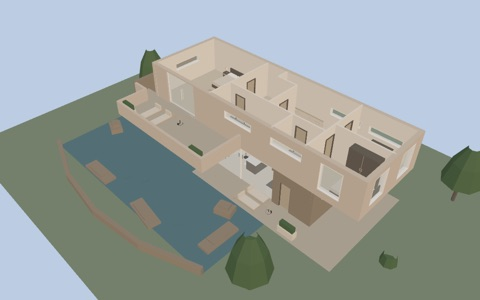
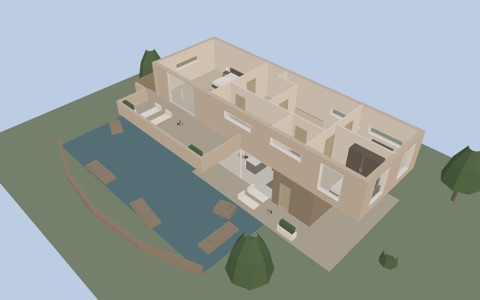
Pond House v4.1: an oak rod rail, the floor lamp lights, fewer materials
The designer's latest revision: the floating stair's rail is oak rods
(no glass), the floor lamp is a light, and materials are merged (122 draw
calls at the scale model with Transparent walls on, from 144). New card
picture. The emulated hand checks aim at a room's middle (Pond House's
box centre is its pond, never a landing).

diff --git a/scripts/make-pond-house.js b/scripts/make-pond-house.js
@@ -30,7 +30,10 @@ const c = (cx, cz, r, y0, y1, mat, seg = 12, r1 = r) => ({ cyl: [cx, cz, r, r1, 
 
 // Fewer distinct materials = fewer draw calls (one per material per storey after the merge).
 // These roles fold into a near neighbour in this home.
-const ALIAS = { bark: 'walnut', foliage: 'green', linen: 'wool', leather: 'graphite', steelWhite: 'ceiling', terracotta: 'oak', brass: 'oak', concrete: 'wool' };
+// Roles that look the same under the app's light share one material (each material is a draw call per storey;
+// Quest 2 budget ~150 at the scale model with see-through walls): oatmeal ~ pale ash, stone ~ warm stone,
+// wool, linen and concrete ~ the light off-white.
+const ALIAS = { bark: 'walnut', foliage: 'green', linen: 'ceiling', leather: 'graphite', steelWhite: 'ceiling', terracotta: 'oak', brass: 'oak', concrete: 'ceiling', wool: 'ceiling', oatmeal: 'oak', stone: 'masonry' };
 
 function toObj(name, solids) {
 	const lines = [`# ${name}: generated for CasaWalk (Pond House)`, `mtllib ${name}.mtl`];
@@ -73,8 +76,8 @@ const MODELS = {
 	glassPanelNarrow: [b(0, 0, 0, 4, 240, 10, 'steelWhite'), b(256, 0, 0, 260, 240, 10, 'steelWhite'), b(4, 0, 4.5, 256, 240, 5.5, 'glass')],
 	glassDoor: [b(0, 0, 0, 4, 270, 10, 'steelWhite'), b(296, 0, 0, 300, 270, 10, 'steelWhite'), b(4, 0, 4.5, 296, 270, 5.5, 'glass'), b(150, 90, 10, 153, 180, 13, 'steelWhite'), b(150, 90, -3, 153, 180, 0, 'steelWhite')],
 	ribbon: [b(0, 0, 0, 240, 4, 30, 'steelWhite'), b(0, 56, 0, 240, 60, 30, 'steelWhite'), b(0, 4, 0, 4, 56, 30, 'steelWhite'), b(236, 4, 0, 240, 56, 30, 'steelWhite'), b(4, 4, 14, 236, 56, 16, 'glass')],
-	door: [b(0, 0, 0, 5, 212, 20, 'walnut'), b(85, 0, 0, 90, 212, 20, 'walnut'), b(5, 207, 0, 85, 212, 20, 'walnut'), b(5, 0, 8, 85, 207, 12, 'oak'), b(74, 98, 5, 78, 102, 15, 'brass')],
-	frontDoor: [b(0, 0, 0, 5, 230, 30, 'walnut'), b(115, 0, 0, 120, 230, 30, 'walnut'), b(5, 225, 0, 115, 230, 30, 'walnut'), b(5, 0, 13, 115, 225, 17, 'walnut'), b(95, 80, 8, 98, 160, 22, 'brass')],
+	door: [b(0, 0, 0, 5, 212, 20, 'oak'), b(85, 0, 0, 90, 212, 20, 'oak'), b(5, 207, 0, 85, 212, 20, 'oak'), b(5, 0, 8, 85, 207, 12, 'oak'), b(74, 98, 5, 78, 102, 15, 'brass')], // one material: openings merge apart
+	frontDoor: [b(0, 0, 0, 5, 230, 30, 'oak'), b(115, 0, 0, 120, 230, 30, 'oak'), b(5, 225, 0, 115, 230, 30, 'oak'), b(5, 0, 13, 115, 225, 17, 'oak'), b(95, 80, 8, 98, 160, 22, 'brass')],
 	// Structure and site
 	column: [b(0, 0, 0, 20, 288, 20, 'steelWhite')], // one storey each: the garden level part and the pavilion part are separate pieces
 	columnP: [b(0, 0, 0, 20, 300, 20, 'steelWhite')],
@@ -96,7 +99,8 @@ const MODELS = {
 	rodRail: [...Array.from({ length: 23 }, (_, i) => c(5 + i * 10.9, 2, 1.5, 0, 97, 'oak', 6)), b(0, 97, -1, 250, 101, 5, 'oak')],
 	// Outdoor stair in the west wall's slot: 16 solid stone steps (model z 0 = the top)
 	stairsOut: Array.from({ length: 16 }, (_, i) => b(0, 0, 416 - (i + 1) * 26, 110, +((i + 1) * 300 / 17).toFixed(2), 416 - i * 26, 'masonry')),
-	shower: [b(0, 0, 0, 90, 6, 90, 'stone'), b(0, 6, 88, 90, 200, 90, 'glass'), c(70, 12, 10, 196, 198, 'brass', 10), c(70, 6, 1, 160, 198, 'brass', 6)],
+	shower: [b(0, 0, 0, 90, 6, 90, 'stone'), b(0, 6, 84, 90, 200, 90, 'stone'), // a stone screen wall (no glass: one material fewer)
+		 c(70, 12, 10, 196, 198, 'brass', 10), c(70, 6, 1, 160, 198, 'brass', 6)],
 	tallWindow: [b(0, 0, 0, 4, 200, 30, 'steelWhite'), b(146, 0, 0, 150, 200, 30, 'steelWhite'), b(4, 0, 0, 146, 4, 30, 'steelWhite'), b(4, 196, 0, 146, 200, 30, 'steelWhite'), b(4, 4, 14, 146, 196, 16, 'glass')],
 	railing: [b(0, 96, 0, 300, 100, 4, 'graphite'), ...Array.from({ length: 11 }, (_, i) => b(i * 29.6, 0, 1, i * 29.6 + 3, 96, 3, 'graphite'))],
 	waterA: [b(0, 0, 0, 950, 1, 620, 'water')],
@@ -196,7 +200,8 @@ const light = (...a) => piece('light', ...a);
 // ===========================================================================
 
 const G = 'level-ground', P = 'level-upper';
-const STONE = argb('masonry'), FRAME = argb('steelWhite'), RENDER = argb('putty'), PLASTER = argb('walls'), OCHRE = argb('concrete');
+const STONE = argb('masonry'), FRAME = argb('walls'), // (the white steel frame reads as the plaster: one colour)
+	 RENDER = argb('putty'), PLASTER = argb('walls'), OCHRE = argb('concrete');
 
 // --- Site: trees, shrubs, the pond (south and south-west, under the terrace), ledges and boulders
 furniture('Tree', 'tree', G, -420, 450);
@@ -213,9 +218,9 @@ furniture('Boulder', 'boulder', G, 1050, 1000, { angle: -0.3 });
 // The pond: flat water pieces (not a room, so nobody steps inside onto the water); it runs under the terrace
 furniture('Pond', 'waterA', G, 125, 1110);
 furniture('Pond', 'waterB', G, 950, 1160);
-furniture('Water lilies', 'lily', G, 300, 1250, { elevation: 1 });
-furniture('Water lilies', 'lily', G, 420, 1180, { elevation: 1 });
-furniture('Water lilies', 'lily', G, 900, 1270, { elevation: 1 });
+furniture('Lily pads', 'lily', G, 300, 1250, { elevation: 1 });
+furniture('Lily pads', 'lily', G, 420, 1180, { elevation: 1 });
+furniture('Lily pads', 'lily', G, 900, 1270, { elevation: 1 });
 
 // --- Ground floor
 // Living room: round the fireplace in the west stone wall
@@ -225,7 +230,7 @@ furniture('Coffee table', 'coffeeTable', G, 250, 400, { angle: PI / 2 });
 furniture('Sofa', 'sofa', G, 420, 400, { angle: PI / 2 });
 furniture('Lounge chair', 'loungeChair', G, 200, 200, { angle: -0.5 });
 furniture('Lounge chair', 'loungeChair', G, 200, 600, { angle: PI + 0.5 });
-furniture('Floor lamp', 'floorLamp', G, 480, 620);
+light('Floor lamp', 'floorLamp', G, 480, 620, { bulbs: [{ z: 0.88, diameter: 0.6 }] });
 furniture('Plant', 'plant', G, 40, 140);
 // Dining by the glass, between the sofa and the bar
 furniture('Dining table', 'diningTable', G, 650, 520);
@@ -357,7 +362,7 @@ const room = (name, level, floorColor, points, extra = {}) => {
 	xml.push(`<room${attrs({ id: `room-${nextId++}`, level, name: name || undefined, floorColor, ceilingColor: argb('ceiling'), ...extra })}>`, ...points.map(([x, y]) => `  <point x='${x}' y='${y}'/>`), '</room>');
 };
 const rect = (x0, y0, x1, y1) => [[x0, y0], [x1, y0], [x1, y1], [x0, y1]];
-const OAK = argb('floor'), LIMESTONE = argb('paleStone'), PAVING = argb('paving'), SLATE = argb('stone');
+const OAK = argb('floor'), LIMESTONE = argb('paleStone'), PAVING = argb('paving'), SLATE = PAVING; // (bathroom floors as the paving: one colour fewer)
 const open = { ceilingVisible: 'false' };
 // Ground floor
 room('Living room and kitchen', G, LIMESTONE, [[0, 100], [784, 100], [784, 211], [1200, 211], [1200, 700], [0, 700]]);

diff --git a/scripts/xr-test.js b/scripts/xr-test.js
@@ -750,7 +750,12 @@ check('B closes the board', (await state()).menu === null);
 	const dotShown = await page.evaluate(() => window.__casawalk.xr.handViews.find((v) => v.c.handedness === 'right').readyDot.visible);
 	check('bare hands: the ready pose shows the orange dot on the thumb', dotShown);
 	// Stepping inside by pointing: tap, point at a room, tap again.
-	const roomPt = await page.evaluate(() => { const x = window.__casawalk.xr, b = x.modes.dollhouse.modelBox(); return b.getCenter(new (x.rig.position.constructor)()).setY(b.min.y + 0.02).toArray(); });
+	// Aim at a room's middle (a room hotspot), or the box's middle for a model without rooms (not the pond: water is no landing).
+	const roomPt = await page.evaluate(() => {
+		const x = window.__casawalk.xr, V = x.rig.position.constructor, room = x.modes.walk.spots().find((s) => s.kind === 'room');
+		if (room) return x.centerer.localToWorld(new V(room.x, room.y + 0.01, room.z)).toArray();
+		const b = x.modes.dollhouse.modelBox(); return b.getCenter(new V()).setY(b.min.y + 0.02).toArray();
+	});
 	await handAimAt(roomPt); await frames(4); await handAimAt(roomPt); await frames(4);
 	await gesture('right', { type: 'tap' }); await frames(8);
 	await handAimAt(roomPt); await frames(8);

diff --git a/tests/samples.test.js b/tests/samples.test.js
@@ -72,9 +72,9 @@ test('Pond House: 2 levels, 17 rooms (14 named; the pond is water, not a room), 
 	const t = targetSets({ layers, multiLevel: true });
 	const water = layers.main.children.filter((m) => m.userData.water);
 	assert.ok(water.length > 0 && water.every((m) => !t.walkable.has(m)) && t.walkableList.some((m) => layers.main.children.includes(m)));
-	// The stair's glass balustrade (and the shower's glass) is never stood on either.
+	// Glass (the shower's screens; the stair has an oak rod rail now) is never stood on either.
 	const glass = layers.main.children.filter((m) => m.userData.glass);
-	assert.ok(glass.length > 0 && glass.every((m) => !t.walkable.has(m)), 'glass is never a landing');
+	assert.ok(glass.every((m) => !t.walkable.has(m)), 'glass is never a landing');
 });
 
 test('Apartment: one level without <level> elements, named zones in one open room, lamps, nothing missing', async () => {

diff --git a/SPEC.md b/SPEC.md
@@ -291,7 +291,7 @@ README.md         how to host, use and update
      - Shared vertices: merged meshes are indexed (`mergeVertices`).
      - Storeys: geometry is merged per storey (distinct level elevations) so the scale model's level picker can hide upper storeys.
      - Lamps glow at sunset and night.
-     - "Try a sample home" (since 22 Nov 2026; was "Try the example home"): a small chooser of cards (picture, name, one line of what the home shows, its size; a credit line for a home made "after" a famous one), one tap opens it. The homes are listed as data in `js/samples.js`, their files and pictures in `examples/`, each generated by its script in `scripts/` (original content, reproducible output, committed); adding a home is one more entry. Direct links `?sample=<id>` (only listed ids: a link never names a file). The service worker keeps them offline. First Pond House (`scripts/make-pond-house.js`: a house by a pond, 2 levels, 17 rooms, a floating stair with a glass balustrade, a deck at the pond, the upper floor overhanging a covered terrace, a terrace with an outdoor stair; revised after the user's walk-through), then the Apartment (`scripts/make-apartment.js`, called Urban Flat until 23 Nov 2026; `?sample=urban-flat` still opens it: a one-bedroom corner flat, one open room, balcony, glass on three sides, no `<level>` elements), both designed for CasaWalk, all colours from one palette table (`scripts/sample-palette.js`, the user's choice "Clay and sage"); FallingTree House and Floatsworth House follow (the sample homes are also the test homes). `npm run samples` rebuilds them. `examples/example-home.sh3d` (`scripts/make-example.js`, original box furniture) stays as the small test fixture. The official Sweet Home 3D examples state no licence allowing redistribution and their server sends no CORS headers, so they are neither copied nor linked. Generated homes write `selectedLevel` on `<home>`: without it Sweet Home 3D opens them with no level tabs and an empty plan.
+     - "Try a sample home" (since 22 Nov 2026; was "Try the example home"): a small chooser of cards (picture, name, one line of what the home shows, its size; a credit line for a home made "after" a famous one), one tap opens it. The homes are listed as data in `js/samples.js`, their files and pictures in `examples/`, each generated by its script in `scripts/` (original content, reproducible output, committed); adding a home is one more entry. Direct links `?sample=<id>` (only listed ids: a link never names a file). The service worker keeps them offline. First Pond House (`scripts/make-pond-house.js`: a house by a pond, 2 levels, 17 rooms, a floating stair with an oak rod rail, a deck at the pond, the upper floor overhanging a covered terrace, a terrace with an outdoor stair; revised after the user's walk-through (v4.1: fewer materials, the floor lamp lights)), then the Apartment (`scripts/make-apartment.js`, called Urban Flat until 23 Nov 2026; `?sample=urban-flat` still opens it: a one-bedroom corner flat, one open room, balcony, glass on three sides, no `<level>` elements), both designed for CasaWalk, all colours from one palette table (`scripts/sample-palette.js`, the user's choice "Clay and sage"); FallingTree House and Floatsworth House follow (the sample homes are also the test homes). `npm run samples` rebuilds them. `examples/example-home.sh3d` (`scripts/make-example.js`, original box furniture) stays as the small test fixture. The official Sweet Home 3D examples state no licence allowing redistribution and their server sends no CORS headers, so they are neither copied nor linked. Generated homes write `selectedLevel` on `<home>`: without it Sweet Home 3D opens them with no level tabs and an empty plan.
      - 2D page: a Display section (Light, Shadows switch) apart from the file buttons; morning is the default light.
   8. Page layout (changed at the user's request: the panel had grown so long that Enter VR needed scrolling): a files card at the top left (Open file, link field, example, status, Recent, File options); a display card at the top right (changed again at the user's request: a bottom bar left Enter VR in a far corner, easy to miss) with "Time of day" (four buttons), "Shadows" (Shadows and Depth shading switches) and a large Enter VR button; the model's details at the bottom right. On narrow windows the display card sits at the bottom so Enter VR stays on screen. Recent rows are a grid so their icon buttons cannot overflow. Files can be dropped on the page.
   10. Welcome notes (added at the user's request: the empty page gave no hint where to start): while no model is open, two handwritten-style notes with sketched arrows: "1 Manage the files" (renamed at the user's request from "Start here", so the page does not say "start" twice next to "Drop a file here to start"; with the file formats, which moved here from the files card) under the files card and "2 Set the mood" under the display card, plus one line saying the home never leaves the device. The handwriting is Kalam (SIL Open Font Licence), vendored as two small woff2 files so the notes look the same on every device, with `font-src 'self'` in the Content Security Policy. If a card leaves no room beneath it they sit between the cards; on narrow windows, in the gap between the stacked cards. The link button is labelled **Load**, and **Try a sample home** is an outline button.
